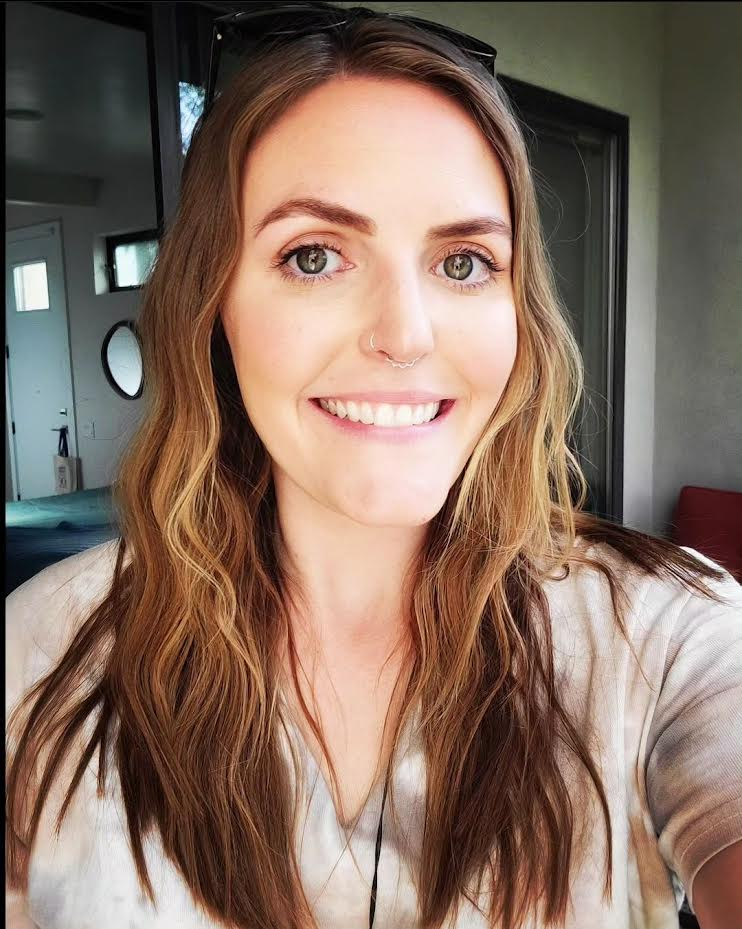
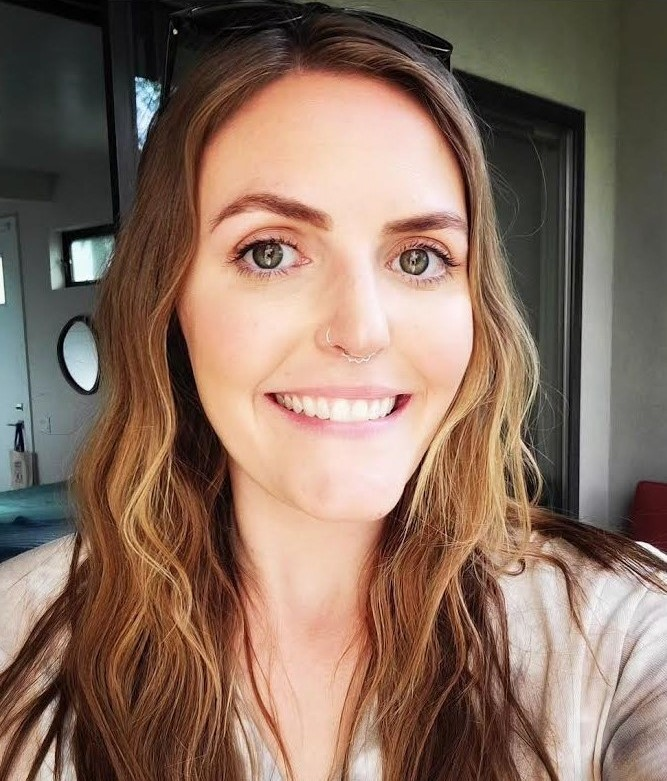
redoing layout

diff --git a/src/components/about/About.js b/src/components/about/About.js
@@ -1,60 +1,62 @@
 import React from 'react';
-import Buck from './assets/buck-deadhead.jpg';
+import Headshot from './assets/Profile-Pic.jpg';
 
 const styles = {
   about: {
+    display: 'flex',
     alignItems: 'center',
-    justifyContent: 'center',
     paddingTop: '40px',
     paddingTop: '40px',
     color: '#09114e',
     backgroundColor: '#964141',
   },
   aboutText: {
-    display: 'flex',
-    alignItems: 'center',
-    justifyContent: 'center',
-    fontSize: '50px',
+    fontSize: '40px',
     color: '#09114e',
-    marginRight: '30px',
     padding: '20px',
     borderRight: '#09114e solid 3px',
   },
   aboutImg: {
-    display: 'flex',
-    maxWidth: '30%',
+    float: 'left',
+    maxWidth: '25%',
     margin: 'auto',
     marginBottom: '40px',
     height: 'auto',
-    border: '4px solid #09114e',
+    marginLeft: '20px',
+    marginRight: '30px',
+    border: '2px solid #09114e',
     borderRadius: '10px',
   },
   aboutParagraph: {
-    display: 'flex',
-    alignItems: 'center',
-    justifyContent: 'center',
     fontSize: '22px',
-    paddingLeft: '20px',
-    paddingRight: '40px',
   }
 }
 
 function About() {
   return (
     <div style={styles.about}>
-      <h2 style={styles.aboutText}>About Me</h2>
-        <img src={Buck} style={styles.aboutImg} />
-        <p style={styles.aboutParagraph}>
-        My name is Kelsey M. O'Kelley. I am currently enrolled in a
-        Full-Stack Web Development Program held by The University of Utah. 
-        I am 34 years old and live year round in beautiful Stanley, ID - 
-        population 67 people and the gateway to the wild and scenic Frank Church 
-        Wilderness Area.
-        <br />
-        <br />
-        Below you will get an introduction to some of 
-        my work as a Full-Stack Website Development Student, as well as ways 
-        to reach me.</p>
+      <a style={styles.aboutText}>About Me</a>
+        <section>
+          <img src={Headshot} style={styles.aboutImg} />
+          <a style={styles.aboutParagraph}>
+          As a recent graduate of a rigorous full-stack coding bootcamp, 
+          I am thrilled to embark on my journey as a junior developer.
+          With a strong foundation in web development, I have gained hands-on 
+          experience in front-end and back-end technologies, including HTML, 
+          CSS, JavaScript, React, Node.js, and SQL. During the bootcamp, I worked 
+          on several collaborative projects that sharpened my problem-solving 
+          skills and taught me the importance of clean code and efficient development practices.
+          <br />
+          <br />
+          I am excited to contribute my enthusiasm, technical skills, and passion for learning 
+          to a dynamic development team. I am ready to take on new challenges and collaborate 
+          with fellow developers to create innovative solutions that drive results.
+          <br />
+          <br />
+          Below you will get an introduction to some of 
+          my work as a Full-Stack Website Development Student, as well as ways 
+          to reach me.</a>
+        </section>
   </div>
   );
 }

diff --git a/src/components/header/Navbar.js b/src/components/header/Navbar.js
@@ -3,36 +3,28 @@ import { Link } from 'react-router-dom';
 
 const styles = {
   navbar: {
-
-  },
-  heading: {
     display: 'flex',
     alignItems: 'center',
-    justifyContent: 'center',
+  },
+  heading: {
+    justifyContent: 'space-between',
     padding: '10px 10px',
+    fontSize: '20px',
     color: '#09114e',
     backgroundColor: '#b3b289',
-    flexDirection: 'row',
-}
+  }
 }
 
 function Navbar() {
   return (
-    <div styles={styles.navbar}>
-        <p style={styles.heading}>About Me</p>
-        <p style={styles.heading}>Portfolio</p>
-        <p style={styles.heading}>Contact Me</p>
-        <p style={styles.heading}>Resume</p>
-    </div>
+    <nav styles={styles.navbar}>
+        <a style={styles.heading}>About Me</a>
+        <a style={styles.heading}>Portfolio</a>
+        <a style={styles.heading}>Contact Me</a>
+        <a style={styles.heading}>Resume</a>
+    </nav>
   );
 }
 
 
 export default Navbar;
-
-   <div styles={styles.navbar}>
-        <p style={styles.heading}>About Me</p>
-        <p style={styles.heading}>Portfolio</p>
-        <p style={styles.heading}>Contact Me</p>
-        <p style={styles.heading}>Resume</p>
-    </div>

diff --git a/src/components/portfolio/main/Main.js b/src/components/portfolio/main/Main.js
@@ -8,7 +8,7 @@ const styles = {
     margin: 'auto',
     marginBottom: '40px',
     height: 'auto',
-    border: '4px solid #09114e',
+    border: '2px solid #09114e',
     borderRadius: '10px',
   },
   projectName: {
@@ -22,7 +22,10 @@ const styles = {
     marginTop: '10px',
     maxWidth: '60%',
     margin: 'auto',
-}
+}, 
+  projectText: {
+    fontSize: '30px',
+  }
 }
 
 
@@ -32,7 +35,7 @@ function Main() {
       <div>
         <img style={styles.mainImg} src={Refractor} />
         <div style={styles.projectName}>
-          <a href='https://github.com/TheKelsenator/yellow-free-fox-01' target='_blank'><p><strong>Refractor</strong></p></a> 
+          <a href='https://thekelsenator.github.io/HTML-CSS-Code-Refactor-01/' target='_blank'><p><strong>Refractor</strong></p></a> 
           <a href='https://github.com/TheKelsenator/yellow-free-fox-01' target='blank'><p>Horiseon</p></a>
         </div> 
       </div>      
@@ -40,3 +43,4 @@ function Main() {
   );
 }
 export default Main;
+

diff --git a/src/components/title/Title.js b/src/components/title/Title.js
@@ -6,21 +6,22 @@ const styles = {
     display: 'flex',
     alignItems: 'center',
     justifyContent: 'center',
-    fontSize: '30px',
+    fontSize: '45px',
     paddingTop: '5px',
-    paddingBottom: '5px',
+    paddingBottom: '10px',
     color: '#09114e',
     backgroundColor: '#b3b289',
     borderRadius: '10px',
+    opacity: '.7',
   },
 };
 
 function Title() {
   return (
     <div>
-      <div style={{ backgroundImage:`url(${Background})`,  backgroundSize: 'cover', padding: '60px 100px',  }}>
+      <div style={{ backgroundImage:`url(${Background})`,  backgroundSize: 'cover', padding: '60px 500px',  }}>
         <header>
-          <div style={styles.header}>Full-Stack Web Development Student</div>
+          <a style={styles.header}>Kelsey M. O'Kelley</a>
         </header>
       </div>
     </div>

diff --git a/src/components/portfolio/Portfolio.js b/src/components/portfolio/Portfolio.js
@@ -4,20 +4,16 @@ import Side from './side/Side';
 
 const styles = {
   work: {
+    display: 'flex',
     alignItems: 'center',
-    justifyContent: 'center',
     paddingTop: '40px',
     paddingTop: '40px',
     color: '#09114e',
     backgroundColor: '#964141',
   },
   workText: {
-    display: 'flex',
-    alignItems: 'center',
-    justifyContent: 'center',
-    fontSize: '50px',
+    fontSize: '40px',
     color: '#09114e',
-    marginRight: '30px',
     padding: '20px',
     borderRight: '#09114e solid 3px',
   },
@@ -26,7 +22,7 @@ const styles = {
 function Portfolio() {
   return (
     <div style={styles.work}>
-    <h2 style={styles.workText}>My Work</h2>
+    <a style={styles.workText}>My Work</a>
       <Main />
       <Side />
     </div>

diff --git a/src/components/header/Header.js b/src/components/header/Header.js
@@ -6,9 +6,9 @@ const styles = {
   top: {
     display: 'flex',
     alignItems: 'center',
-    justifyContent: 'center',
-    position: 'sticky',
+    justifyContent: 'space-between',
     top: 0,
+    position: 'sticky',
     padding: '10px 10px',
     color: '#09114e',
     backgroundColor: '#b3b289',
@@ -26,7 +26,7 @@ const styles = {
 function Header() {
   return (
     <header style={styles.top}>
-      <h1 style={styles.heading}>Kelsey's Portfolio</h1>
+      <h2 style={styles.heading}>Full-Stack Web Developer</h2>
       <Navbar />
     </header>
   );

diff --git a/src/components/header/Header.css b/src/components/header/Header.css
@@ -1,8 +1,8 @@
-.header {
+/* .header {
   display: flex;
   align-items: center;
   justify-content: center;
   padding: 10px 10px;
   color: #09114e;
   background-color: #b3b289;
-}
+} */

diff --git a/src/components/resume/Resume.js b/src/components/resume/Resume.js
@@ -1,5 +1,5 @@
 import React from 'react';
-import fakeResume from './assets/fakeResume.png';
+import fakeResume from './assets/Resume.png';
 
 const styles = {
   resume: {
